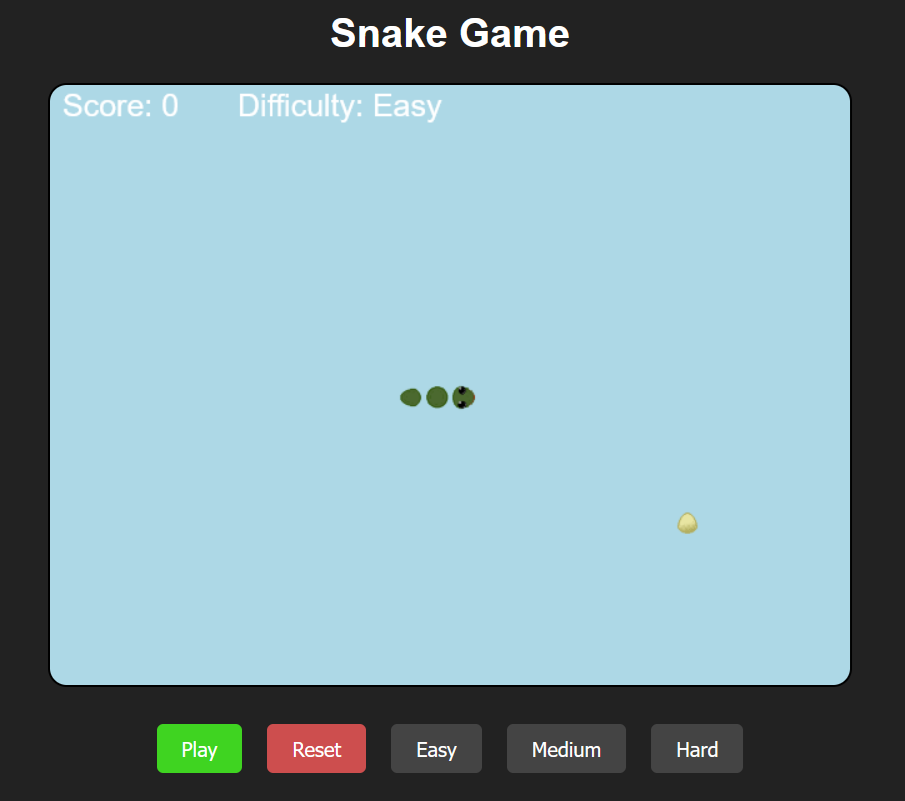
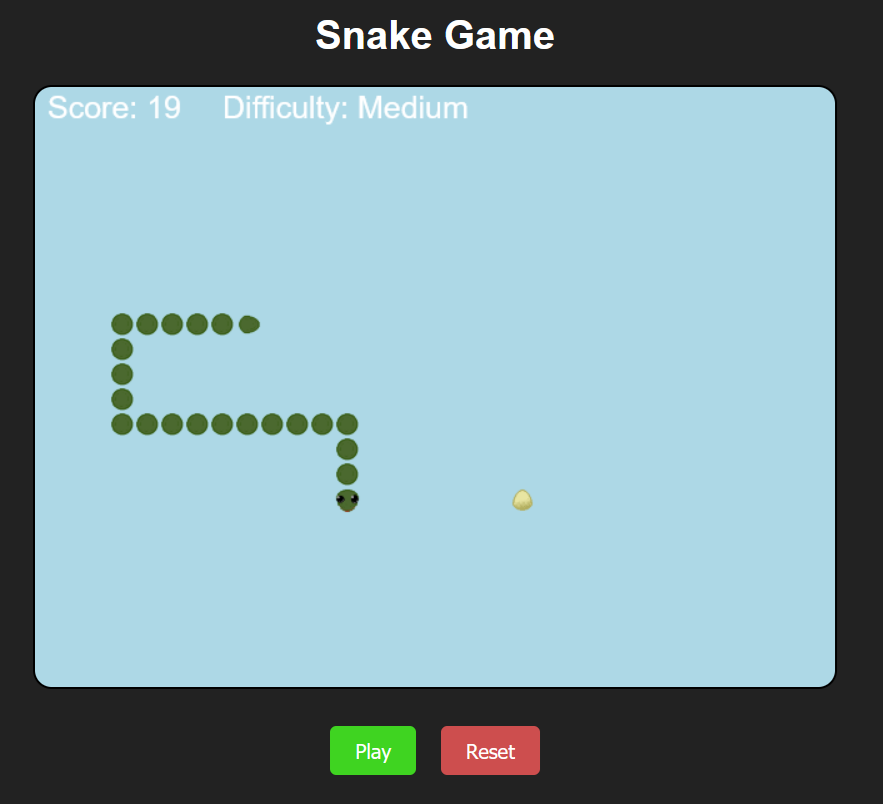
add a few more projects link

diff --git a/index.html b/index.html
@@ -80,6 +80,16 @@ This project makes use of axios, body-parser, and express for a Node based serve
         </div>
 
         <div class="project-card">
+          <h3>The Game of Division</h3>
+          <p>This is a grid based game that uses division, the player is looking to get the least penalty. The game has a rules tab.</p>
+          <a href="https://michaelgalloway404.github.io/TheDivisionGame/" target="_blank" class="projectLinks">Test out the
+            Game</a>
+            </a><a href="https://michaelgalloway404.github.io/TheDivisionGame/" target="_blank" class="projectLinks"
+            ><img class="imgCard" src="./media/Division_Game.png"></a>
+          <a href="https://github.com/MichaelGalloway404/TheDivisionGame" target="_blank" class="projectLinks">repo: Snake Game</a>
+        </div>
+
+        <div class="project-card">
           <h3>Hangman</h3>
           <p>Simple Hangman Game</p>
           <a href="https://michaelgalloway404.github.io/HangMan/" target="_blank" class="projectLinks">Test out the
@@ -87,6 +97,16 @@ This project makes use of axios, body-parser, and express for a Node based serve
             </a><a href="https://michaelgalloway404.github.io/HangMan/" target="_blank" class="projectLinks"
             ><img class="imgCard" src="./media/HangManImg.png"></a>
           <a href="https://github.com/MichaelGalloway404/HangMan" target="_blank" class="projectLinks">repo: HangMan</a>
+        </div>
+
+        <div class="project-card">
+          <h3>Simon Game</h3>
+          <p>Classic Simon Memory Game</p>
+          <a href=" https://michaelgalloway404.github.io/SimonGame/" target="_blank" class="projectLinks">Test out the
+            Game</a>
+            </a><a href=" https://michaelgalloway404.github.io/SimonGame/" target="_blank" class="projectLinks"
+            ><img class="imgCard" src="./media/Simon_Game.png"></a>
+          <a href="https://github.com/MichaelGalloway404/SimonGame" target="_blank" class="projectLinks">repo: HangMan</a>
         </div>
 
         <div class="project-card">
